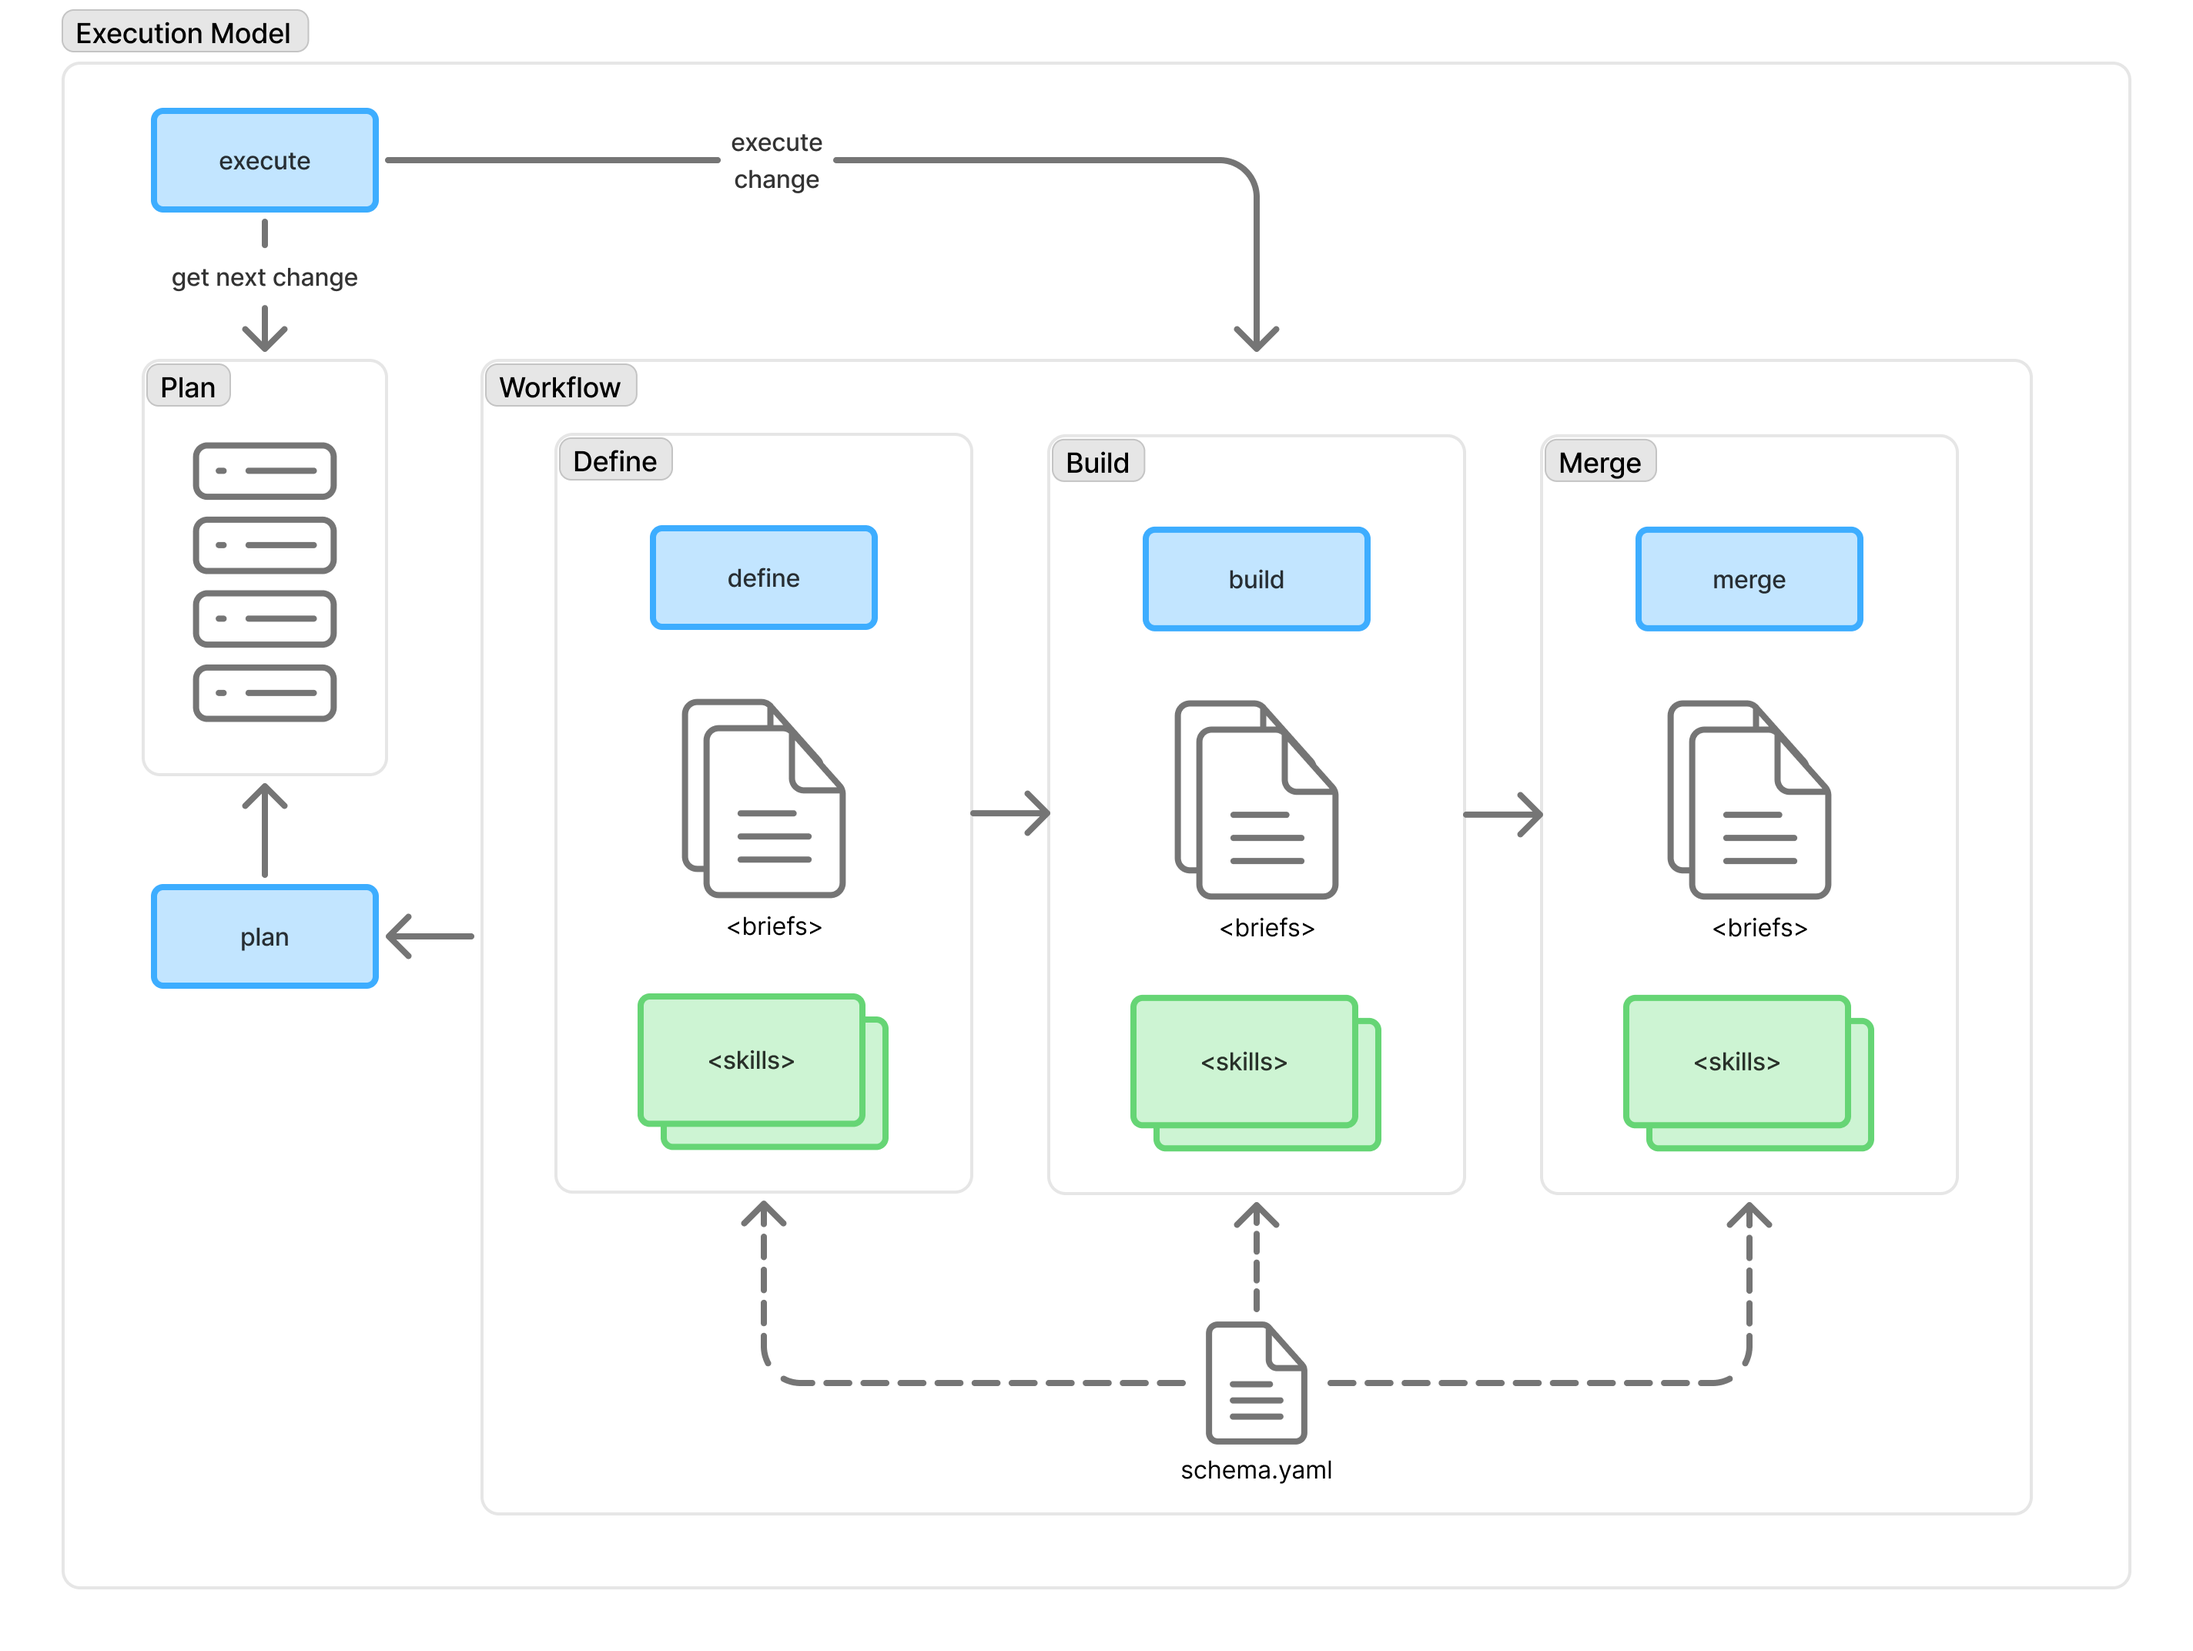
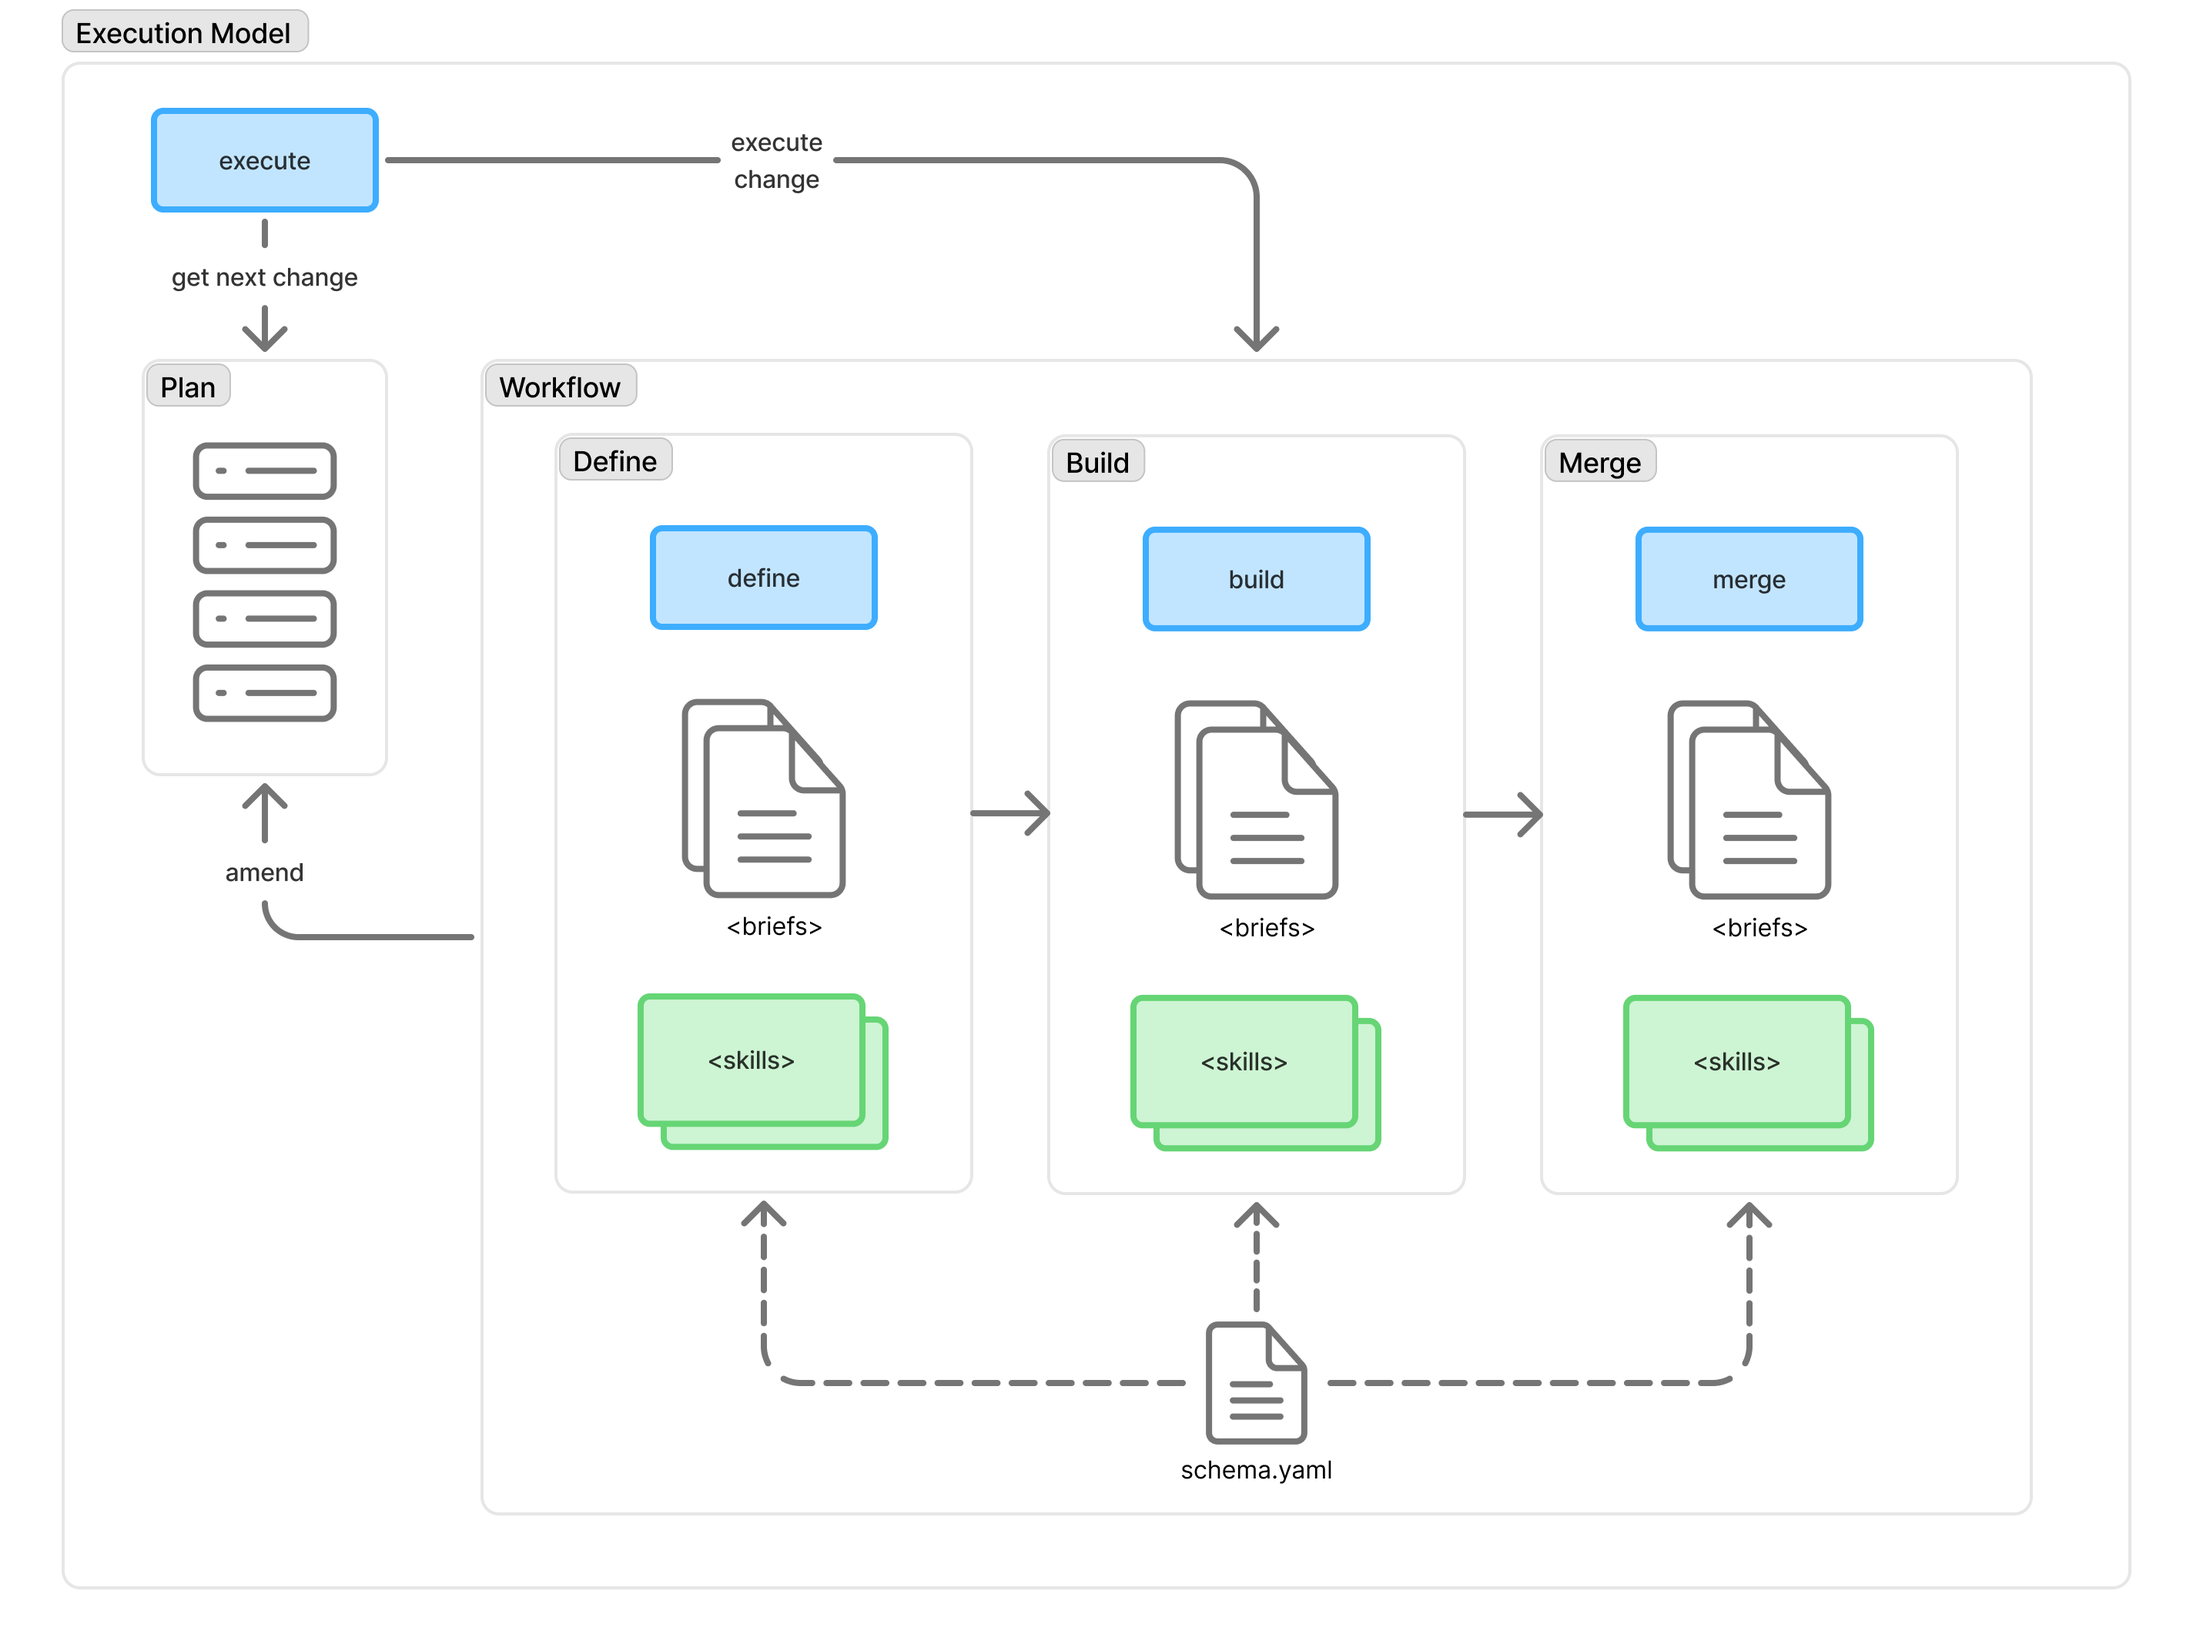
update image

Changed region(s): [[0.0625, 0.5, 0.1875, 0.625]]

diff --git a/rfcs/rfc-2-execution.md b/rfcs/rfc-2-execution.md
@@ -6,7 +6,7 @@
 
 Drive complex, multi-change initiatives through Specify's define-build-merge loop using a **Plan** (`plan.yaml`) — an ordered, dependency-aware list of changes with status tracking and progressive baseline accumulation. The plan format supports greenfield builds, legacy migrations, and platform modernisations; the only difference is where the input to `/spec:define` comes from.
 
-This RFC is structured in two layers. **Layer 1** (the MVP) delivers the plan format and CLI commands — enough for a human to drive a plan-based initiative using the existing skill chain. **Layer 2** adds the `/spec:execute` driver skill that automates the loop. Layer 1 is immediately useful without Layer 2, and the manual Layer 1 commands remain available as fallback under Layer 2.
+This RFC is structured in three layers. **Layer 1** (the MVP) delivers the plan format and CLI commands — enough for a human to drive a plan-based initiative using the existing skill chain. **Layer 2** adds the `/spec:execute` driver skill that automates the execution loop. **Layer 3** adds the `/spec:plan` skill for assisted authoring of the initial plan. Each layer is independently useful: Layer 1 needs no automation; Layer 2 works against hand-authored plans; Layer 3 feeds plans into either Layer 1 or Layer 2. The manual Layer 1 commands remain available as fallback under both higher layers.
 
 ## Execution Model Overview
 
